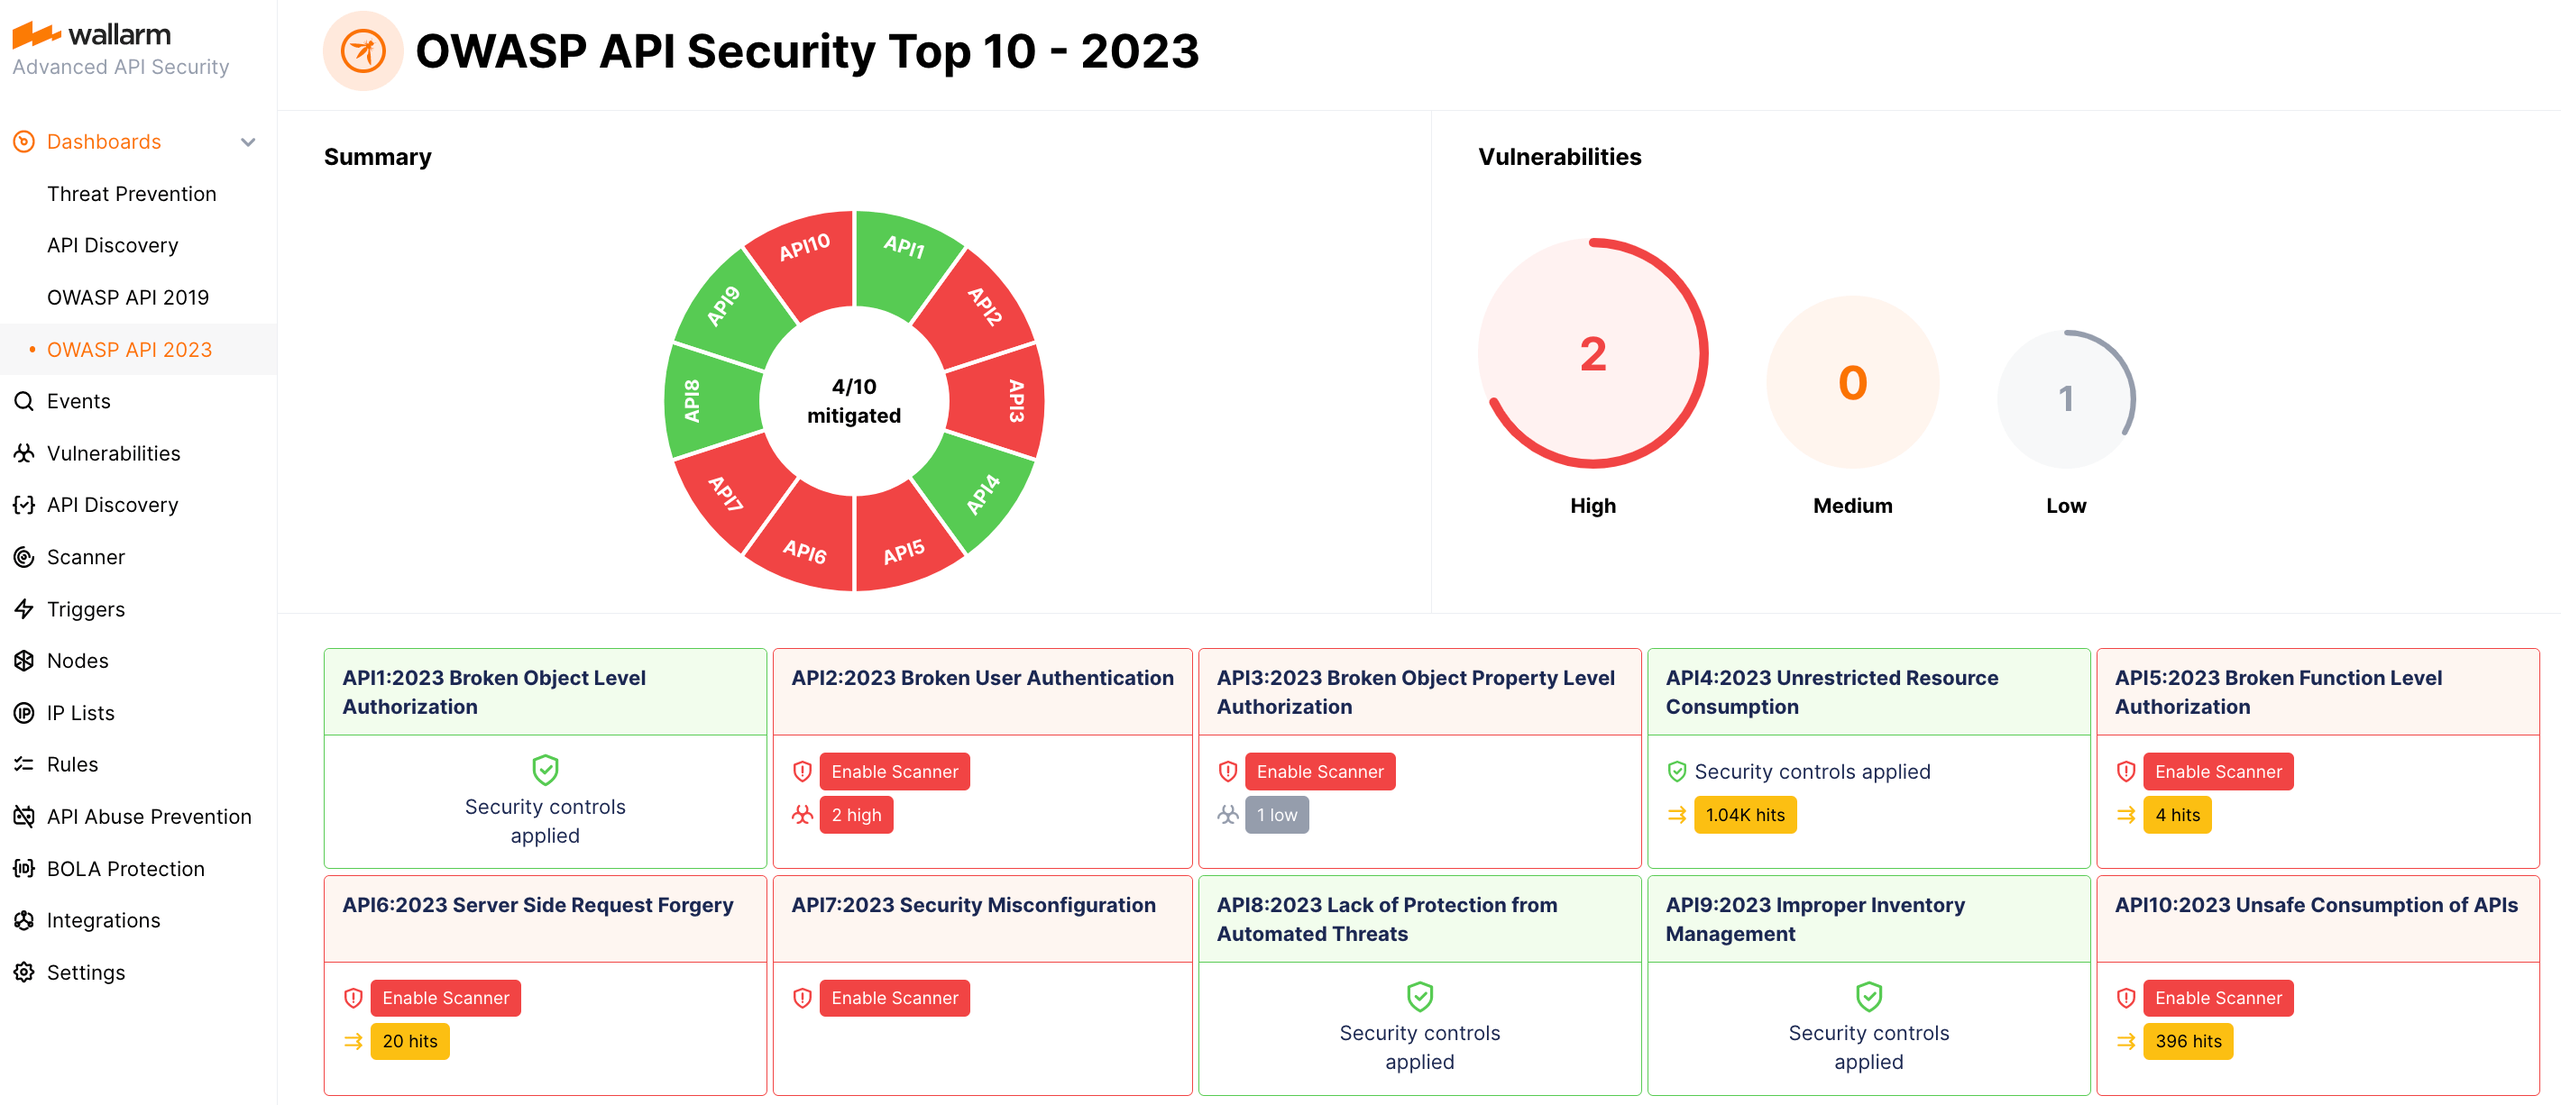
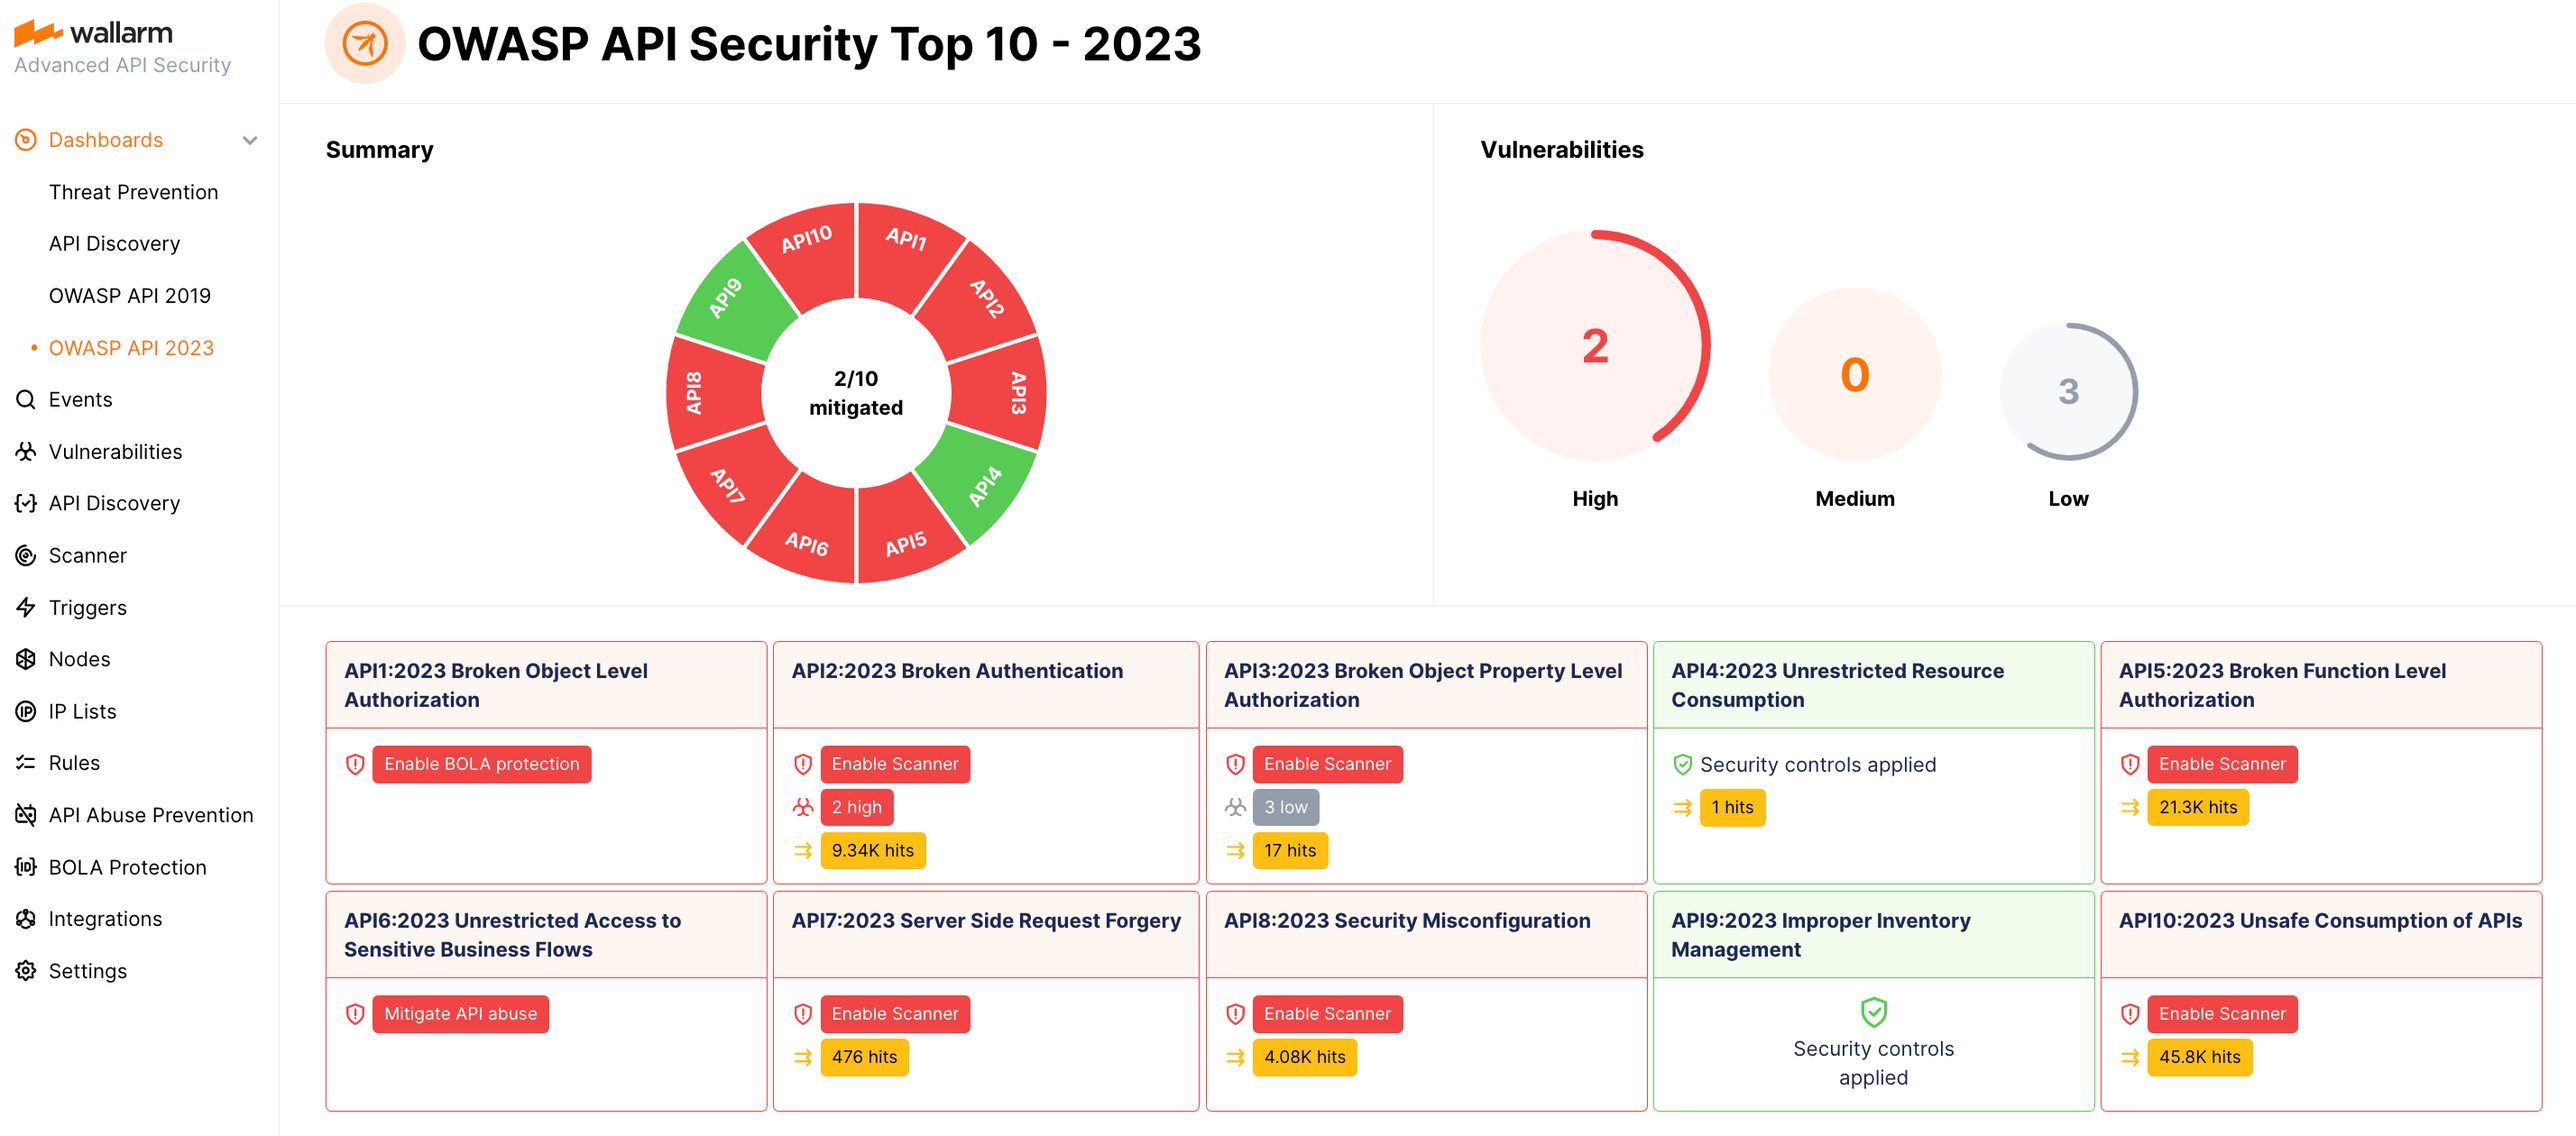
DOCS-2146 change the owasp 2023 dash docs in accordance with the latest release

diff --git a/docs/latest/user-guides/dashboards/owasp-api-top-ten.md b/docs/latest/user-guides/dashboards/owasp-api-top-ten.md
@@ -2,7 +2,7 @@
 
 The [OWASP API Security Top 10](https://owasp.org/www-project-api-security/) is a gold standard for the evaluation of security risk in APIs. To help you measure your API's security posture against these API threats, Wallarm offers the dashboards that provide clear visibility and metrics for threat mitigation.
 
-The dashboards cover both the OWASP API Security Top 10 2019 and the upcoming [OWASP API Security Top 10 2023 release candidate](https://owasp.org/www-project-api-security/announcements/2023/02/api-top10-2023rc), expected to launch later this year.
+The dashboards cover the OWASP API Security Top 10 risks of both the [2019](https://owasp.org/API-Security/editions/2019/en/0x00-header/) and [2023](https://owasp.org/API-Security/editions/2023/en/0x00-header/) versions.
 
 By using these dashboards, you can assess the overall security state and proactively address discovered security issues by setting up appropriate security controls.
 
@@ -47,14 +47,14 @@ Wallarm security platform provides full-fledged protection against OWASP API Sec
 | OWASP API Top 10 threat 2023 | Wallarm security controls |
 | ----------------------- | ------------------------ |
 | [API1:2023 Broken Object Level Authorization](https://github.com/OWASP/API-Security/blob/master/editions/2023/en/0xa1-broken-object-level-authorization.md) | <ul><li>[Automatic BOLA mitigation](../../admin-en/configuration-guides/protecting-against-bola.md#automatic-bola-protection-for-endpoints-discovered-by-api-discovery) to automatically create triggers to protect vulnerable endpoints</li></ul> |
-| [API2:2023 Broken User Authentication](https://github.com/OWASP/API-Security/blob/master/editions/2023/en/0xa2-broken-authentication.md) | <ul><li>[Vulnerability Scanner](../../about-wallarm/detecting-vulnerabilities.md#vulnerability-scanner) to discover active vulnerabilities of the corresponding type</li><li>[Brute force trigger](../../admin-en/configuration-guides/protecting-against-bruteforce.md) to mitigate brute force attacks targeting authentication endpoints</li><li>[Weak JWT detection](../triggers/trigger-examples.md#detect-weak-jwts) trigger to discover weak authentication vulnerabilities based on requests with weak JWTs</li></ul> |
+| [API2:2023 Broken Authentication](https://github.com/OWASP/API-Security/blob/master/editions/2023/en/0xa2-broken-authentication.md) | <ul><li>[Vulnerability Scanner](../../about-wallarm/detecting-vulnerabilities.md#vulnerability-scanner) to discover active vulnerabilities of the corresponding type</li><li>[Brute force trigger](../../admin-en/configuration-guides/protecting-against-bruteforce.md) to mitigate brute force attacks targeting authentication endpoints</li><li>[Weak JWT detection](../triggers/trigger-examples.md#detect-weak-jwts) trigger to discover weak authentication vulnerabilities based on requests with weak JWTs</li></ul> |
 | [API3:2023 Broken Object Property Level Authorization](https://github.com/OWASP/API-Security/blob/master/editions/2023/en/0xa3-broken-object-property-level-authorization.md) | <ul><li>[Vulnerability Scanner](../../about-wallarm/detecting-vulnerabilities.md#vulnerability-scanner) to discover active vulnerabilities of the corresponding type</li></ul> |
 | [API4:2023 Unrestricted Resource Consumption](https://github.com/OWASP/API-Security/blob/master/editions/2023/en/0xa4-unrestricted-resource-consumption.md) | <ul><li>[Brute force trigger](../../admin-en/configuration-guides/protecting-against-bruteforce.md) to mitigate brute force attacks which often lead to DoS, making the API unresponsive or even unavailable</li></ul> |
 | [API5:2023 Broken Function Level Authorization](https://github.com/OWASP/API-Security/blob/master/editions/2023/en/0xa5-broken-function-level-authorization.md) | <ul><li>[Vulnerability Scanner](../../about-wallarm/detecting-vulnerabilities.md#vulnerability-scanner) to discover active vulnerabilities of the corresponding type</li><li>[Forced browsing trigger](../../admin-en/configuration-guides/protecting-against-bruteforce.md) to mitigate forced browsing attempts that are also a way for this threat exploitation</li></ul> |
-| [API6:2023 Server Side Request Forgery](https://github.com/OWASP/API-Security/blob/master/editions/2023/en/0xa6-server-side-request-forgery.md) | <ul><li>[Vulnerability Scanner](../../about-wallarm/detecting-vulnerabilities.md#vulnerability-scanner) to discover active vulnerabilities of the corresponding type</li></ul> |
-| [API7:2023 Security Misconfiguration](https://github.com/OWASP/API-Security/blob/master/editions/2023/en/0xa7-security-misconfiguration.md) | <ul><li>[Vulnerability Scanner](../../about-wallarm/detecting-vulnerabilities.md#vulnerability-scanner) to discover active vulnerabilities of the corresponding type</li><li>Wallarm node self-checks to keep node versions and security policies up to date (see [how to address the issues](../../faq/node-issues-on-owasp-dashboards.md))</li></ul> |
-| [API8:2023 Lack of Protection from Automated Threats](https://github.com/OWASP/API-Security/blob/master/editions/2023/en/0xa8-lack-of-protection-from-automated-threats.md) | <ul><li>[API Abuse Prevention](../../about-wallarm/api-abuse-prevention.md) mitigating malicious bot actions</li></ul> |
-| [API9:2023 Improper Inventory Management](https://github.com/OWASP/API-Security/blob/master/editions/2023/en/0xa9-improper-assets-management.md) | <ul><li>[API Discovery](../../about-wallarm/api-discovery.md) to automatically discover actual API inventory based on real traffic</li></ul> |
+| [API6:2023 Unrestricted Access to Sensitive Business Flows](https://github.com/OWASP/API-Security/blob/master/editions/2023/en/0xa6-unrestricted-access-to-sensitive-business-flows.md) | <ul><li>[API Abuse Prevention](../../about-wallarm/api-abuse-prevention.md) mitigating malicious bot actions</li></ul> |
+| [API7:2023 Server Side Request Forgery](https://github.com/OWASP/API-Security/blob/master/editions/2023/en/0xa7-server-side-request-forgery.md) | <ul><li>[Vulnerability Scanner](../../about-wallarm/detecting-vulnerabilities.md#vulnerability-scanner) to discover active vulnerabilities of the corresponding type</li></ul> |
+| [API8:2023 Security Misconfiguration](https://github.com/OWASP/API-Security/blob/master/editions/2023/en/0xa8-security-misconfiguration.md) | <ul><li>[Vulnerability Scanner](../../about-wallarm/detecting-vulnerabilities.md#vulnerability-scanner) to discover active vulnerabilities of the corresponding type</li><li>Wallarm node self-checks to keep node versions and security policies up to date (see [how to address the issues](../../faq/node-issues-on-owasp-dashboards.md))</li></ul> |
+| [API9:2023 Improper Inventory Management](https://github.com/OWASP/API-Security/blob/master/editions/2023/en/0xa9-improper-inventory-management.md) | <ul><li>[API Discovery](../../about-wallarm/api-discovery.md) to automatically discover actual API inventory based on real traffic</li></ul> |
 | [API10:2023 Unsafe Consumption of APIs](https://github.com/OWASP/API-Security/blob/master/editions/2023/en/0xaa-unsafe-consumption-of-apis.md) | <ul><li>[Vulnerability Scanner](../../about-wallarm/detecting-vulnerabilities.md#vulnerability-scanner) to discover active vulnerabilities of the corresponding type</li></ul> |
 
 ## Comparison of OWASP API Top 10 2019 and 2023
@@ -64,4 +64,4 @@ According to the OWASP project, the top security threats for 2023 are largely si
 * The [API6:2019 Mass Assignment](https://github.com/OWASP/API-Security/blob/master/editions/2019/en/0xa6-mass-assignment.md) threat has been combined with [API3:2023 Broken Object Property Level Authorization](https://github.com/OWASP/API-Security/blob/master/editions/2023/en/0xa3-broken-object-property-level-authorization.md).
 * The [API8:2019 Injection](https://github.com/OWASP/API-Security/blob/master/editions/2019/en/0xa8-injection.md) threat is no longer listed separately and has been included in the new [API10:2023 Unsafe Consumption of APIs](https://github.com/OWASP/API-Security/blob/master/editions/2023/en/0xaa-unsafe-consumption-of-apis.md) category.
 * The [API10:2019 Insufficient Logging & Monitoring](https://github.com/OWASP/API-Security/blob/master/editions/2019/en/0xaa-insufficient-logging-monitoring.md) threat has been removed from the OWASP API Security Top 10.
-* The new [API6:2023 Server Side Request Forgery](https://github.com/OWASP/API-Security/blob/master/editions/2023/en/0xa6-server-side-request-forgery.md) and [API8:2023 Lack of Protection from Automated Threats](https://github.com/OWASP/API-Security/blob/master/editions/2023/en/0xa8-lack-of-protection-from-automated-threats.md) risks have been added to the list that underscores the significance of these API threats.
+* The list now includes two new API threats, namely [API6:2023 Unrestricted Access to Sensitive Business Flows](https://github.com/OWASP/API-Security/blob/master/editions/2023/en/0xa6-unrestricted-access-to-sensitive-business-flows.md), which introduces automated threats, and [API7:2023 Server Side Request Forgery](https://github.com/OWASP/API-Security/blob/master/editions/2023/en/0xa7-server-side-request-forgery.md), thereby underscoring the significance of these threats.
